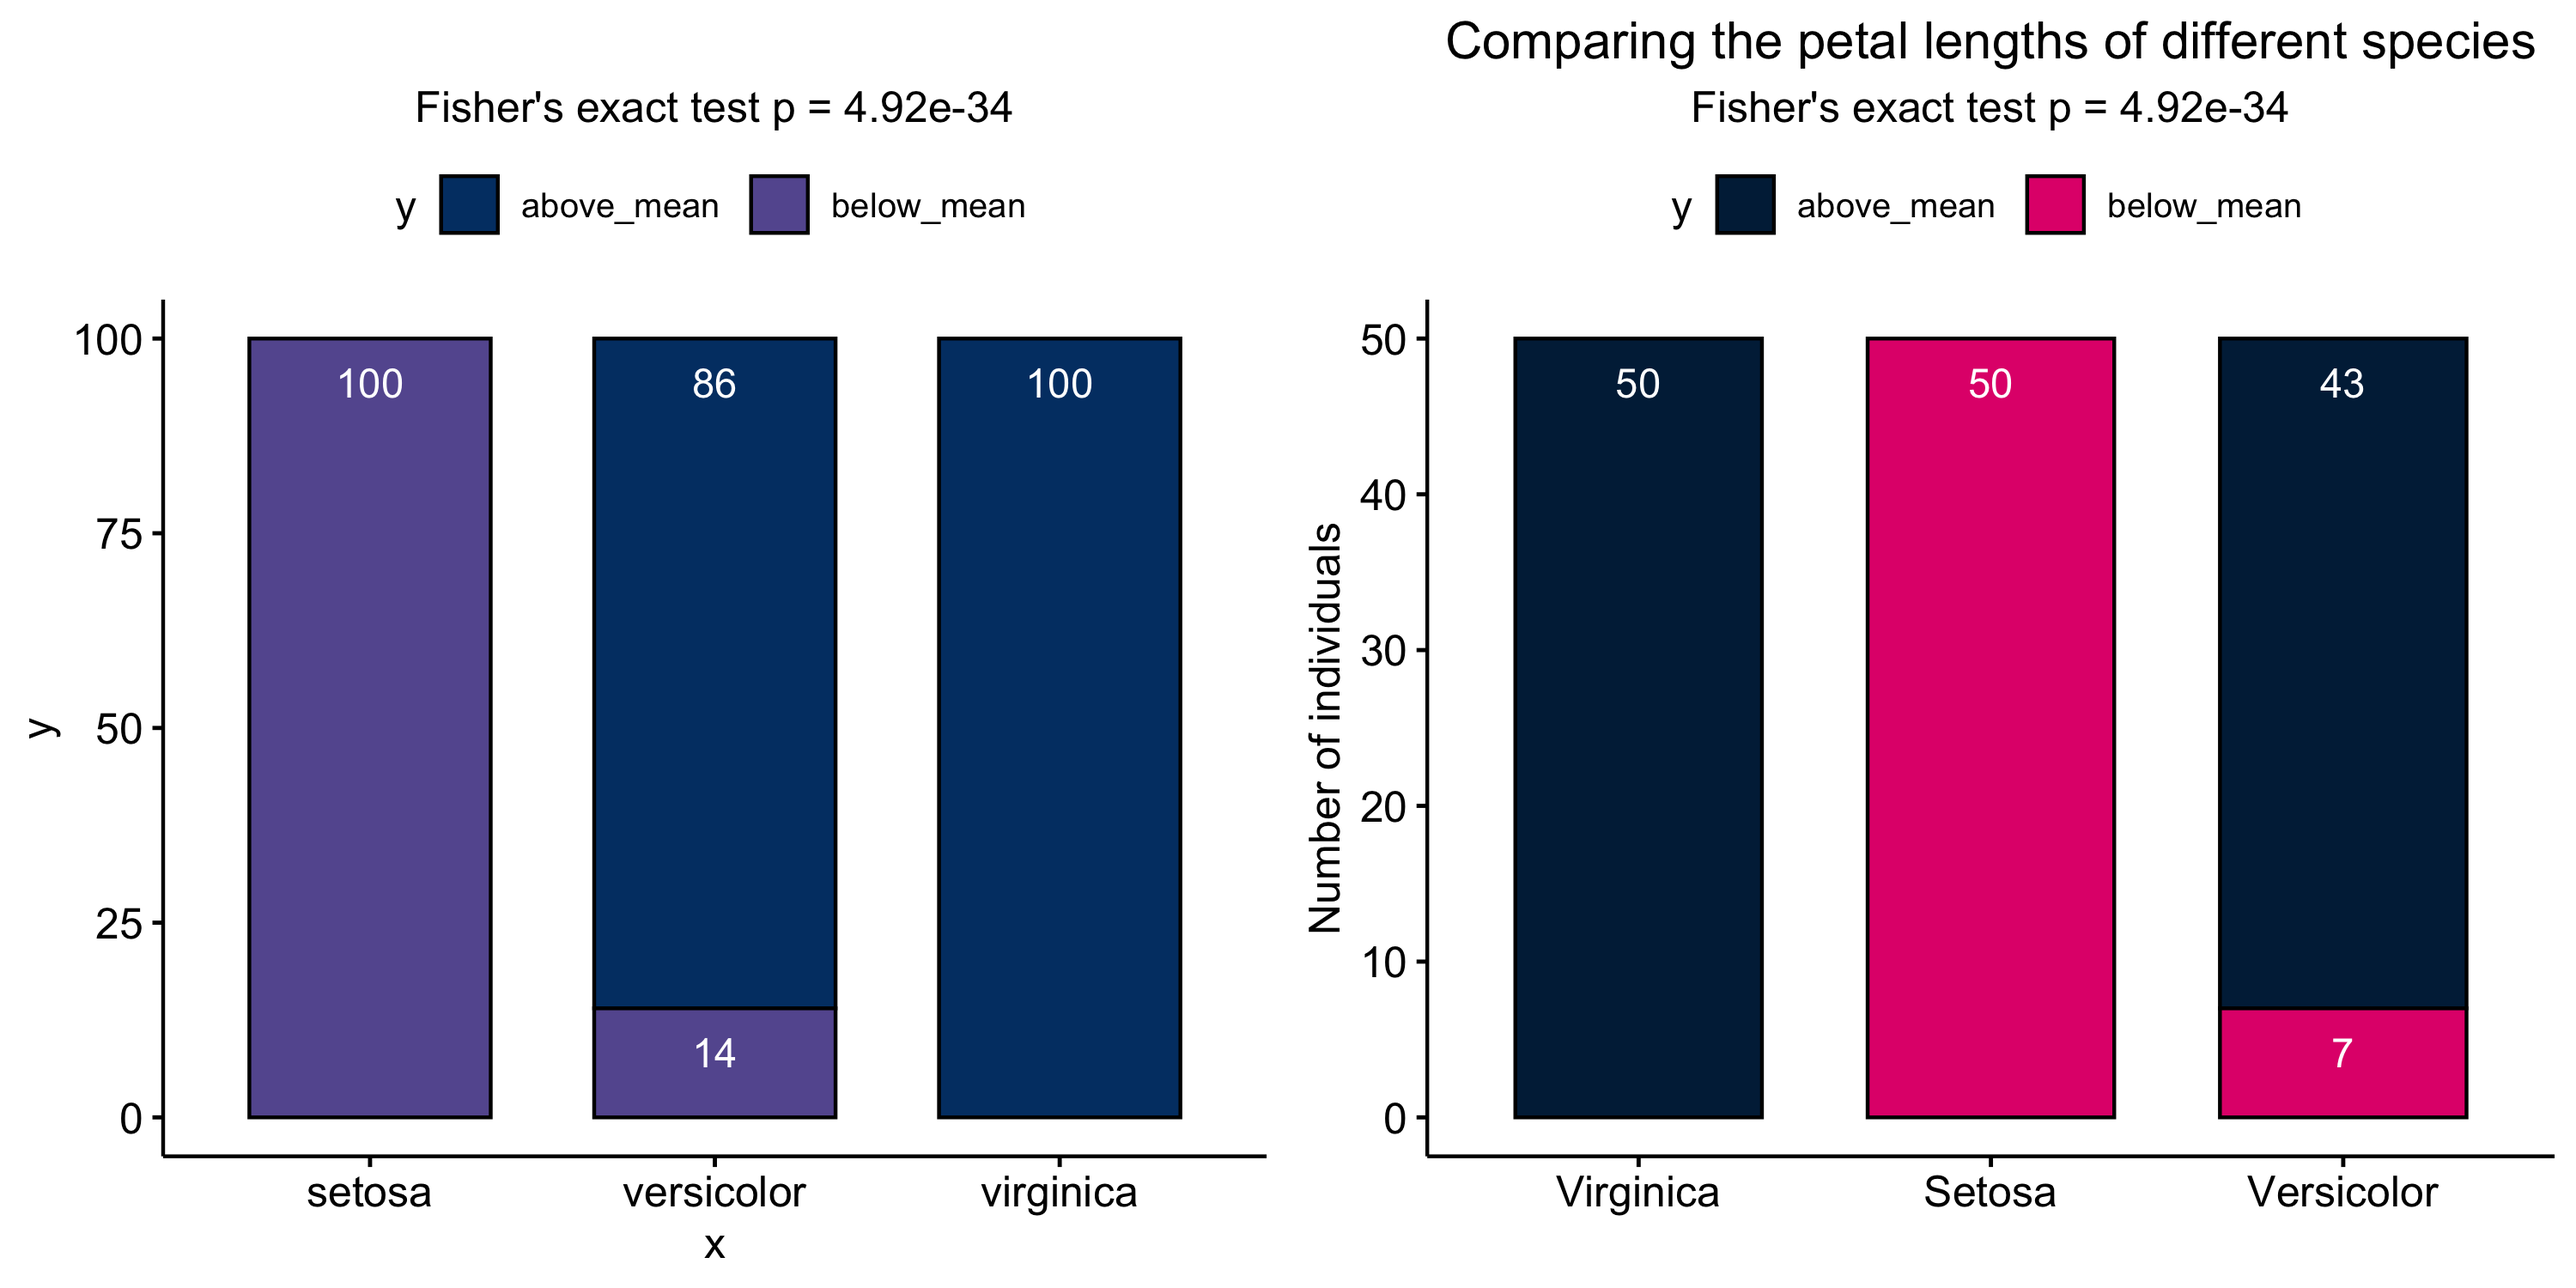
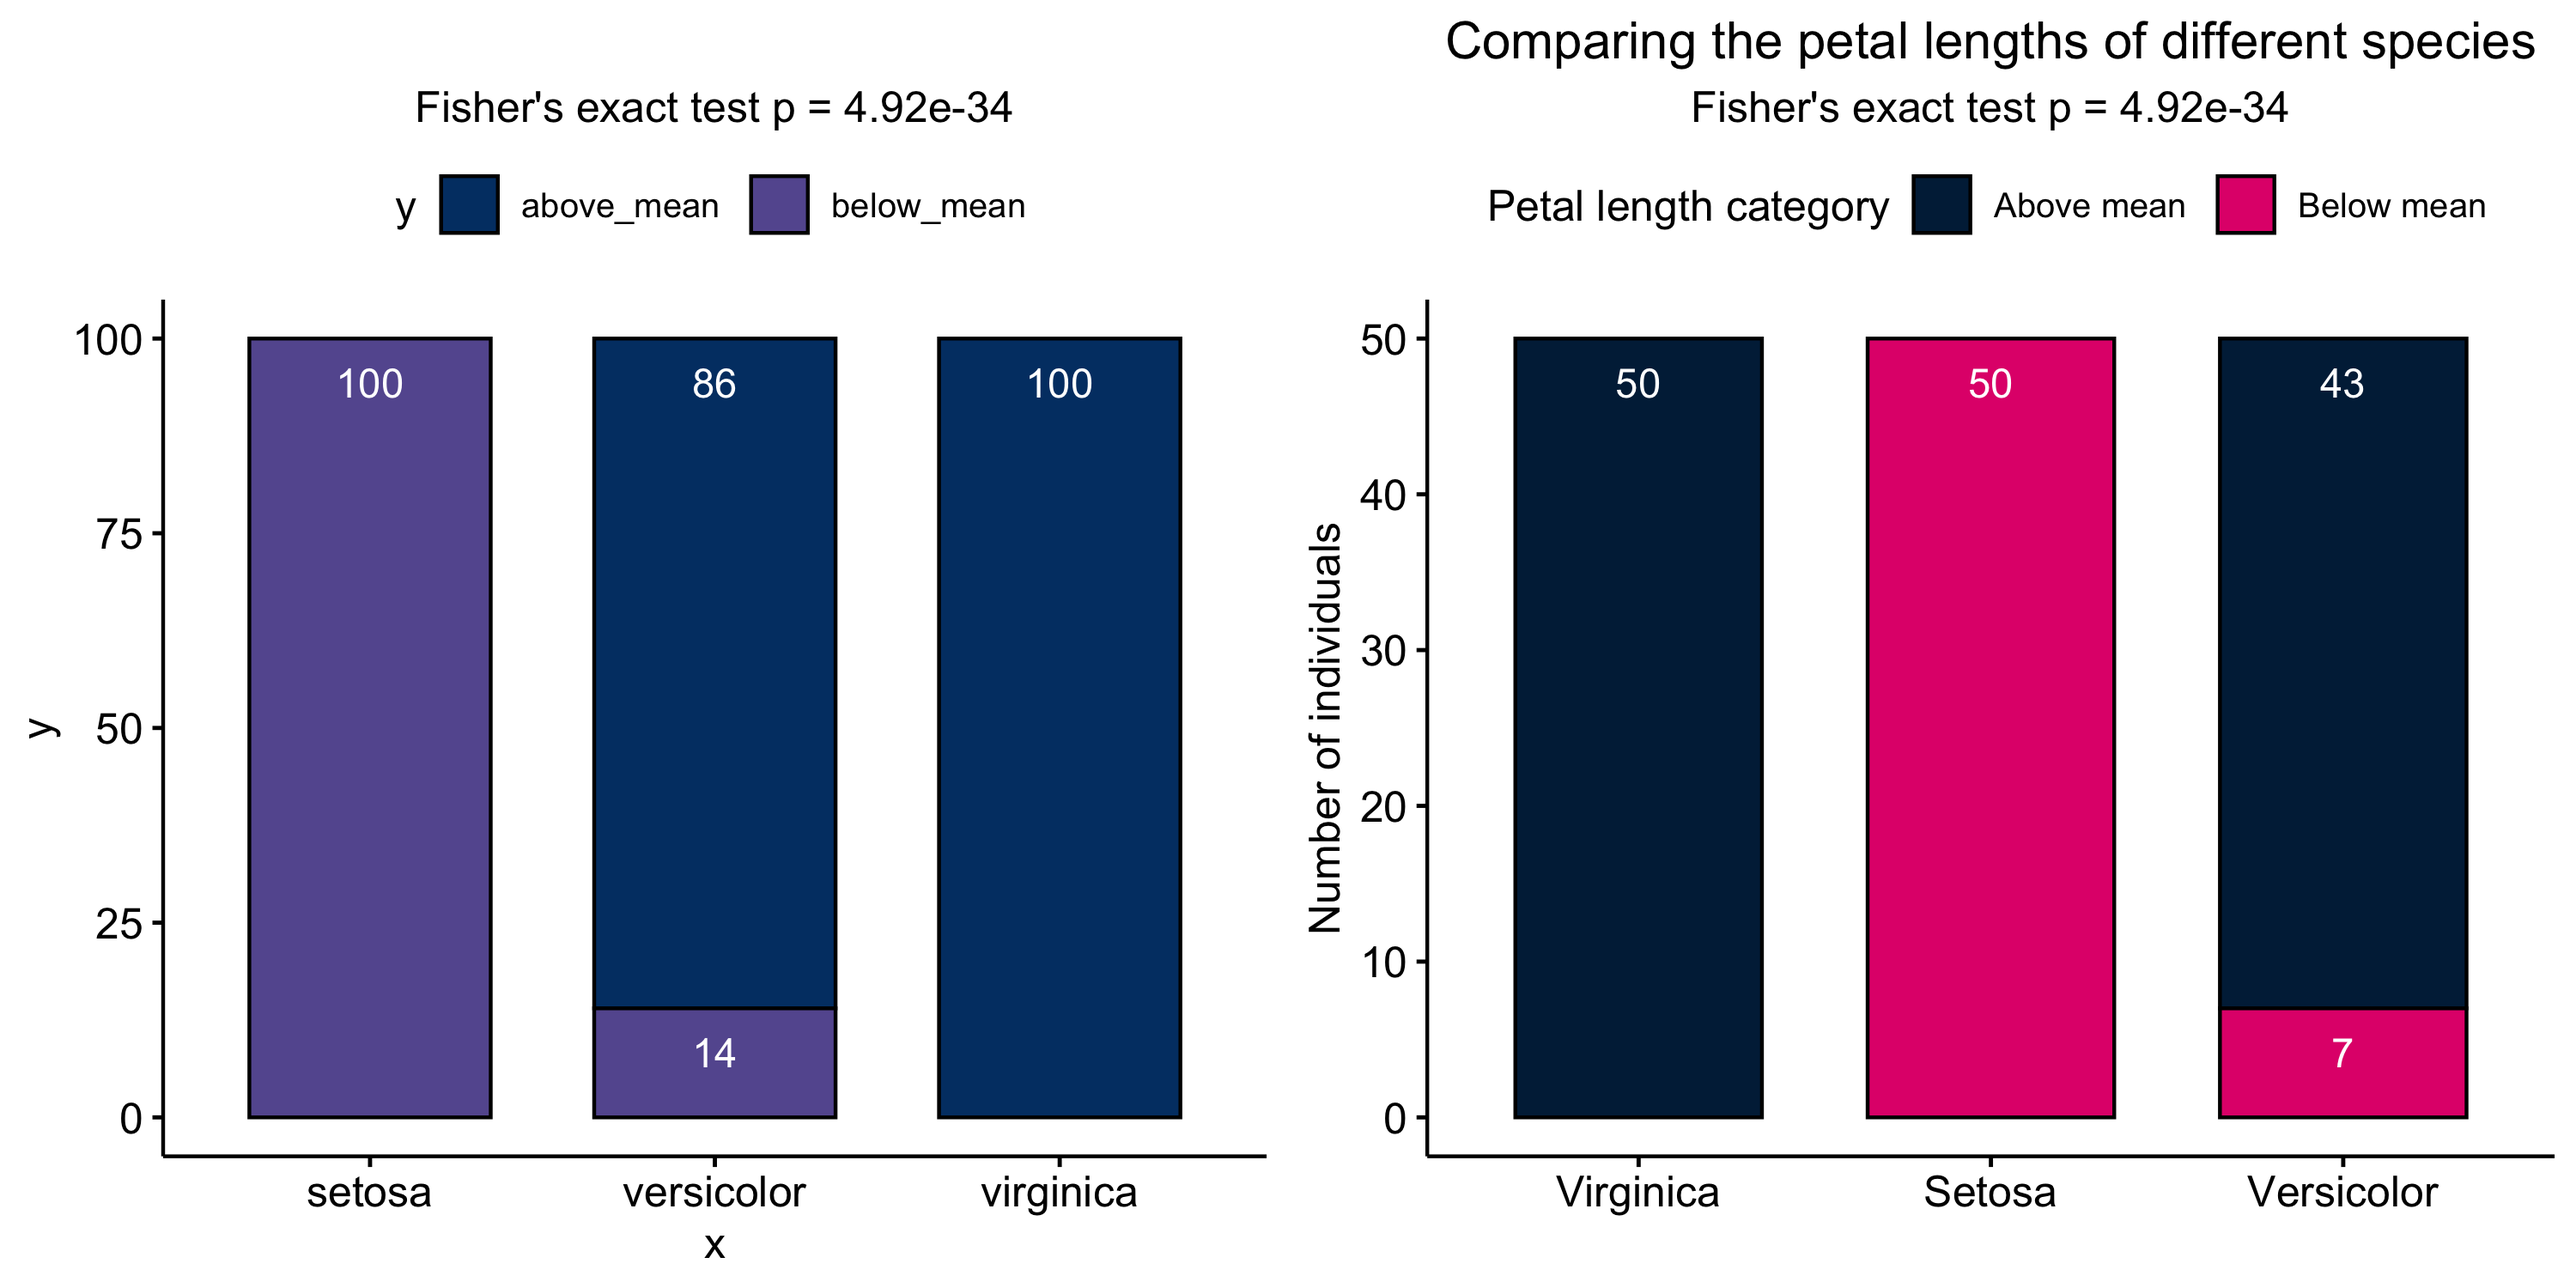
adding customizability to legends

Changed region(s): [[0.589, 0.1227, 0.961, 0.184]]

diff --git a/README.md b/README.md
@@ -213,7 +213,9 @@ full_custom_barplot = barplotter(data = iris, x_val = "Species", y_val = "Petal_
                                  pct = FALSE, style = "custom", colors = c("darkblue", "magenta"),
                                  y_lab = "Number of individuals", x_lab = "",
                                  title = "Comparing the petal lengths of different species",
-                                 labcol = "white")
+                                 labcol = "white", legend_lab = "Petal length category",
+                                 labels = c("Above mean", "Below mean")
+                                 )
 
 cowplot::plot_grid(minimal_barplot, full_custom_barplot)
 ```
